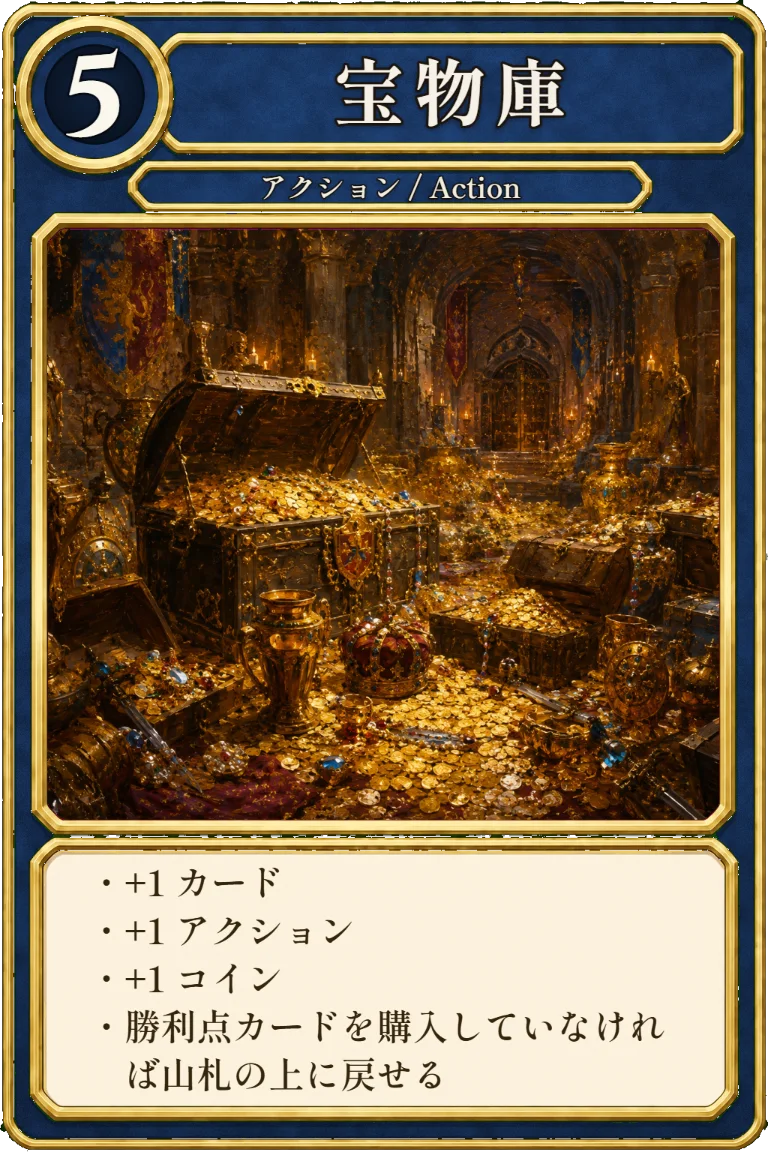
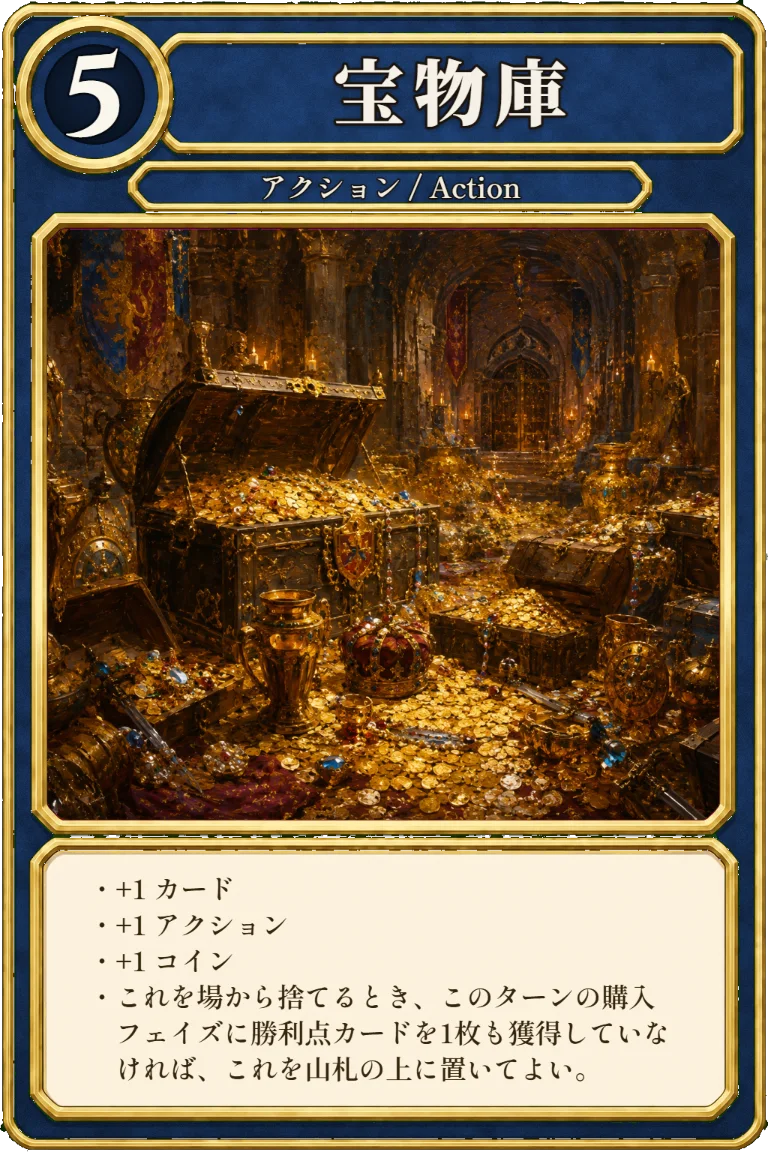
fix(seaside): 宝物庫＝条件は「購入フェイズに獲得した勝利点」だけ（2026エラッタの文面へ更新）
公式FAQ逐語＝`This only cares about Victory cards gained in the Buy phase, not ones gained in
the Action phase (such as via Smugglers).`
＝**アクションフェイズの勝利点の獲得（密輸人／工房で庭園 等）は宝物庫を妨げない**のに、
本アプリは `gainedThisTurn` を見ていて妨げていた（出荷済みの忠実性バグ・エラッタ以前から）。

現行のカード文（2026エラッタ＝2022エラッタの差し戻し）＝
`When you discard this from play, if you didn't gain any Victory cards in your Buy phase this
turn, you may put this onto your deck.`
→ 実装位置（場から捨てる瞬間）は元から正しかったので、条件だけを直した。
`t.victoryGainedInBuy` を新設（獲得した瞬間のフェイズで判定＝ヴィラが phase を戻しても正しい）。

カード文を現行に更新して webp を再生成（このPCのみ）。回帰テスト5件（感度をバグ注入で確認）。
npm test 全44スイート緑。

Changed region(s): [[0.1562, 0.75, 0.875, 0.9688], [0.4375, 0.0312, 0.75, 0.125]]

diff --git a/js/engine.js b/js/engine.js
@@ -1338,6 +1338,7 @@
       active, phase: 'action', actions: 1, buys: 1, coins: 0, potions: 0, costReduction: 0,
       actionsPlayed: 0, copperBonus: 0, merchants: 0, silverPlayed: false, buysMade: 0,
       coinPenalty: 0, // 冒険：-$1トークンの未消化ぶん（購入フェイズで最初に得る$1に食い込む。毎ターンリセット）
+      victoryGainedInBuy: false, // 海辺：宝物庫＝このターンの**購入フェイズに**勝利点を獲得したか（アクションフェイズの獲得は数えない）
       priestCount: 0, // ルネサンス：司祭＝このターン有効な司祭の数（廃棄1枚につき +2コイン × この数）
       cargoCharges: 0, // ルネサンス：貨物船＝このターン「獲得したカードを脇に置ける」残り回数（貨物船1枚につき1回）
       improvePlays: 0, // ルネサンス：増築＝このターンに使用した回数（玉座/山砦/王笏の再演も数える＝策謀 t.schemes と同型）
@@ -8964,6 +8965,13 @@
     //   ヴィラの獲得時効果はこの関数の途中で phase を 'buy'→'action' に変えるので、それより前の値を捕まえておく
     //   （さもないと購入フェイズ中のヴィラ獲得で公会堂/列柱/汚された神殿の呪い が発火しない＝過小得点）。
     const gainWasBuyPhase = !!(state.turn && state.turn.phase === 'buy');
+    /* 海辺：宝物庫＝「このターンの**購入フェイズに**勝利点カードを1枚も獲得していなければ」山札の上に戻せる。
+       公式FAQ逐語＝`This only cares about Victory cards gained in the Buy phase, not ones gained in the
+       Action phase (such as via Smugglers).` ＝**アクションフェイズの獲得（密輸人・工房で庭園 等）は妨げない**。
+       獲得した瞬間のフェイズで判定する（ヴィラが phase を戻しても正しい＝ランドマークと同じ理由）。 */
+    if (gainWasBuyPhase && state.turn && pIndex === state.turn.active && isTypeSupply(state, cardId, 'victory')) {
+      state.turn.victoryGainedInBuy = true;
+    }
     // 移動動物園：**獲得した瞬間**に追放マットにあった同名の枚数。門番（追放するか）と
     //   追放マットの払い戻し（同名を全部捨て札に戻せるか）は、どちらもこの値で判定する＝両者は排他になる。
     const exiledBefore = exileCount(state.players[pIndex], cardId);
@@ -10327,8 +10335,13 @@
         if (n) log(state, `${p.name} は城壁のある村 ${n}枚 を山札の上に戻した。`);
       }
     }
-    // 宝物庫：このターンに勝利点カードを獲得していなければ、場の宝物庫を山札の上に戻せる（常に得なので自動）。
-    if (p.inPlay.includes('treasury') && !(state.turn.gainedThisTurn || []).some((id) => DOM.isType(id, 'victory'))) {
+    /* 海辺：宝物庫＝**これを場から捨てるとき**、このターンの**購入フェイズに**勝利点カードを1枚も獲得して
+       いなければ、山札の上に置いてよい（常に得なので自動＝許容簡略化）。
+       ⚠ 判定は `t.victoryGainedInBuy`（購入フェイズの獲得だけ）。以前は `gainedThisTurn` を見ていたので、
+          **アクションフェイズに勝利点を獲得した（密輸人／工房で庭園 等）だけで戻せなくなっていた**（既存の忠実性バグ）。
+       ※現行のカード文は 2026エラッタで「購入フェイズの終わりに」→「これを場から捨てるとき」に戻っている
+         （2022エラッタの差し戻し）＝この位置（場から捨てる瞬間）が正しい。 */
+    if (p.inPlay.includes('treasury') && !state.turn.victoryGainedInBuy) {
       let n = 0;
       while (removeOne(p.inPlay, 'treasury')) { p.deck.unshift('treasury'); n++; }
       if (n) log(state, `${p.name} は宝物庫 ${n}枚 を山札の上に戻した。`);

diff --git a/js/cards.js b/js/cards.js
@@ -235,7 +235,7 @@
     bazaar:       { id: 'bazaar',       name: 'バザー',     cost: 5, types: ['action'],
                     text: '+1 カード\n+2 アクション\n+1 コイン' },
     treasury:     { id: 'treasury',     name: '宝物庫',     cost: 5, types: ['action'],
-                    text: '+1 カード\n+1 アクション\n+1 コイン\n勝利点カードを購入していなければ山札の上に戻せる' },
+                    text: '+1 カード\n+1 アクション\n+1 コイン\nこれを場から捨てるとき、このターンの購入フェイズに勝利点カードを1枚も獲得していなければ、これを山札の上に置いてよい。' },
     outpost:      { id: 'outpost',      name: '前哨地',     cost: 5, types: ['action', 'duration'],
                     text: 'このターン1度だけ、手札3枚の追加ターンを得る' },
     tactician:    { id: 'tactician',    name: '策士',       cost: 5, types: ['action', 'duration'],

diff --git a/docs/research/risingsun_rules.md b/docs/research/risingsun_rules.md
@@ -1,0 +1,206 @@
+# 旭日（Rising Sun）＝公式ルール研究の正本
+
+- 拡張＝**Dominion: Rising Sun**（第16拡張・**2024年8月10日**発売・Rio Grande Games）。
+- **日本語の拡張名＝「旭日（きょくじつ）」**。⚠ 本プロジェクトが長らく書いていた「日の出づる国」は**誤り**だった
+  （英語wiki `Rising Sun > Trivia > Official releases in other languages` の `Japanese: 旭日 (pron. kyokujitsu)` と、
+  日本語wiki `wikiwiki.jp/dominiondeck` のページ名 `旭日` が**独立に一致**）。
+- **300枚／実装対象50種**＝王国250（**25種**×10）＋ランダマイザー25＋**イベント10**＋**予言(Prophecy)15**。
+- トークン＝負債40／**日の出(Sun)13**。
+- **カードの機能エラッタは0件**（`Errata` ページの Rising Sun 節が空・Versions 表は `August 2024 / First edition` の1行だけ）。
+
+作成＝2026-08-16。多エージェント研究（8群を分担収集 → **各群を別エージェントが一次資料で敵対検証** → 訂正を反映した確定版）。
+確定した訂正 **43件**（[high] 2／[medium] 12／[low] 29）。**捏造・枚数過不足はゼロ**。
+
+---
+
+## ★実装前に必読（18項目）★
+
+**ここだけは記憶ではなくこの文書を見ること。** 各項目の根拠は該当章にある。
+
+### 新機構（新規は2つだけ）
+1. **前兆(Omen)／予言(Prophecy)／日の出(Sun)トークン**
+   ＝**王国に Omen が1枚でもあれば予言を1枚だけ配る**（Omen が何枚あっても1つ）。
+   Sun トークンは **2人5／3人8／4人10／5人12／6人13**。
+   **「+1 Sun」＝予言からトークンを1個取り除く。最後の1個を取り除いた瞬間に予言の効果が有効になり、以後ゲーム終了までずっと有効。**
+   **「+1 Sun」は Omen カードの記載の一番最初に必ず来る**＝**予言はそのカードの残りの効果より前に発動しうる**
+   （公式FAQ逐語＝`First the +1 [Sun] happens, which may trigger a Prophecy; then …`）。
+   **全部取り除いた後の「+1 Sun」は何もしない**（空振りでも Omen の残りは普通に解決する）。
+   - **Omen は6種**＝Mountain Shrine(5D) / Poet($4) / River Shrine($4) / Rustic Village($4) / Tea House($5) /
+     **Kitsune($5)＝`Action - Attack - Omen`**。
+   - **予言は「カード」ではない**（公式逐語＝`Prophecies are not considered "cards" at all`）＝
+     `allCards` にも保存則 tally にも入れない。庭園/品評会/壁にも数えない。Sun トークンも非カード。
+   - **予言は横型の「合計2枚まで」に数えない**（同盟の Ally とまったく同じ扱い）。
+     公式の「最大2枚」の列挙は `Events, Traits, Landmarks, Projects, and Ways` で**予言が入っていない**。
+     枠色は **iris blue（菖蒲色）**。**コスト欄は無い**。
+2. **影(Shadow)カード＝5種**（Fishmonger$2 / Alley$4 / **Ninja$4＝`Action-Attack-Shadow`** / Ronin$5 / Tanuki$5）
+   - **裏面が違うので山札から使える**。**シャッフルするとき「シャッフルした束の一番下」に置く**。
+     **獲得したときは一番下に置かない**（シャッフルのときだけ）。底に置かれた後も普通に動く。
+   - **アクションを使えるときならいつでも、山札のどこにあっても使える**（＝**アクション権を消費する**。
+     Donald X. 逐語＝`you have to be allowed to play an Action, it doesn't get around that`）。
+   - **玉座の間などが「手札からカードを使う」と言ったときも山札の影札を使ってよい**（本拡張の `Practice` も同じ）。
+   - ⚠ **ただし手札にあるわけではない**＝`Alley` の「手札1枚を捨てる」・地下貯蔵庫・民兵の捨て札・書庫の手札枚数
+     には**一切数えない**。**逆に庭園/品評会/絹の道など「所有カードの総数」には数える**（山札の底も所有カード）。
+   - **裏面は5種とも別の絵**（wiki の `File:NinjaBack.jpg` 等5枚を実見して確定）＝
+     **裏を見れば何の影札かまで分かる**。共通なのは帯の文言 `When shuffling this, put it on the bottom of your deck.` だけ。
+     → **`maskStateFor` は「どの位置が影札か」ではなく「どの位置にどの影札があるか」を自分に見せる**設計にする。
+   - **略奪の「運命の(Fated)」と一緒に底に置ける**（相対順は選べる）＝mix-all で同居する。
+3. **負債(Debt)・イベント(Event)・持続(Duration) は既存機構**（帝国／冒険・帝国／全拡張）。**新規実装は不要**。
+
+### 出荷済みの挙動に関わること（★最重要★）
+4. **【2024エラッタ・帝国に遡及】負債は「そのターン中いつでも」返済できる**（購入フェイズ限定ではない）。
+   旧ルールは wiki が `Prior official rules (amended by the release of the Rising Sun expansion)` として過去扱い。
+   Donald X.＝`no more screwing over Black Market`（＝アクションフェイズの闇市場で負債持ちが詰むのが動機）。
+   → **2026-08-16 に修正済み**（`REPAY_DEBT` の購入フェイズ判定を外し、UI の返済ボタンを全フェイズ共通に）。
+5. **【同】負債を負うのは「購入」したときだけ**。**効果での獲得では負債を負わない**
+   （逐語＝`Although buying a card with [D] in its cost gives you Debt tokens, gaining such a card in other ways does not.`）。
+   → **2026-08-16 に修正済み**（`takeDebt` を `gain()` から `BUY` / `BLACK_MARKET_BUY` へ移した）。
+   ルールブックの公式例 **`Tanuki trashing an Artist can gain a Daimyo`** がまさにこの経路＝**旭日を実装すると必ず踏む**。
+6. **コスト比較は成分別**（既存 `costOf`/`costUpTo`/`costExact` が既に正しい）。公式例＝
+   **`"Up to [$4]" は D を含むコストを含まない`**／**`$4 と 6D はどちらも他方より高くない`**／
+   **`8D は 6D より高い`**／**`純粋な D コストには暗黙の $0 がある`**。
+   → `Craftsman can't gain a Mountain Shrine`（5D は "up to $5" ではない）。
+7. **持続を追加で使わせたカードも場に残る**＝公式が名指しする一覧は
+   **Throne Room / Scepter / Mastermind / Specialist / Flagship / Daimyo**。
+   ＝**略奪の決定D4「旗艦は持続を再演したら場に残す（例外なし）」と完全に一致**。**Daimyo も同じ実装**。
+   ⚠ ただし本アプリには **§0-25/§0-28 の許容簡略化「玉座×持続では玉座が場に残らない」**が残っており、
+   **Daimyo を足すと旭日単独セットでも見えるようになる**。
+8. **【2025エラッタ】持続が場を離れたら以後働かない**（`If a Duration card leaves play somehow, it stops doing
+   things on future turns.`）＋**玉座側の再演も止まる**。**印刷版ルールブック(2024)にはこの2文が無い**＝
+   **wiki の現行版が正**。本アプリの現状は未調査＝**段階2の着手前に確認すること**。
+9. **【2026エラッタ・未アナウンス】`Royal Galley`（同盟）＝脇に置かない**／**`Treasury`（海辺）＝捨てたときに誘発**
+   （2022エラッタの差し戻し）。**どちらも `2026 Errata` ページに正式掲載されている**。
+   → §「決定事項 D2」を見ること（**§0-29 A4 の決定を覆す**）。
+10. **【2025エラッタ】`Capital`（帝国）＝`When you discard this from play, +[6D].`**（「その後 返済してよい」が消えた）。
+    理由＝負債がいつでも返せるようになったので**冗長になった**だけ＝**挙動は同じ**。本アプリの実装は結果として正しい。
+    ⚠ **`Errata` の要約ページには載っておらず、`Capital` の個別 Versions 表にしか無い**＝要約だけ見ると必ず取りこぼす。
+
+### 実装で壊しやすいところ
+11. **`Continue`（イベント・8D）＝購入フェイズからアクションフェイズへ戻る**＝**ヴィラ(Villa)と同じクラス**。
+    闘技場の再武装／宝箱の再発動／公会堂・列柱の `gainWasBuyPhase` を必ず通すこと。
+    **`Continue` だけが `Once per turn:` 付き**（他9イベントは入れない）。
+    さらに **`River Shrine` は「このターンの購入フェイズで1枚も獲得しなかったか」を複数の購入フェイズを跨いで見る**。
+12. **`Daimyo`（6D・`Action - Command`）＝「このターン、次に使う命令でないアクションを再使用する」**
+    ＝**略奪の旗艦(Flagship)とほぼ同型**（旗艦は持続で「次回」、大名は「このターン中」）。
+    **`Command` 種別が付いているのは無限ループ防止のためだけ**（公式逐語＝`it has no meaning beyond stopping
+    these cards from playing each other.`）＝**`DOM.isType(card,'command')` の除外に Daimyo を足す**。
+    公式＝**任意ではない**／**そのカードが自身を廃棄しても再使用する**／**大名2枚＋名匠なら名匠を計3回使う**。
+13. **`Riverboat`（$3）の準備**＝**使っていない非持続の「ちょうど $5」のアクション1枚を脇に置く**。
+    「動かさずに使用する」＝**はみだし者と同じ命令型の処理**（日本語wiki が明示）＝**`playAsCommand` を通す**。
+    ⚠ **その脇札自身の setup も走らせる**必要がある（Divine Wind の逐語 `Do any Setup for them that they require`）。
+14. **`Approaching Army`（予言）＝準備でアタックの王国カードの山を1つ追加する**（既にアタックがあっても）。
+    **11山目は普通のサプライ山**（購入可・獲得可・**3山終了に数える**）＝**若き魔女の災いカード(Bane)と同型**。
+    **予言が発動しなくても準備の追加は起きる**。
+15. **`Divine Wind`（予言）＝最後の Sun を取り除いたとき、王国の10山（＋11山目）を撤去して新しく10種を配り直す**
+    ＝**本アプリに前例が無い破壊的操作**。公式逐語で決まっていること＝
+    **廃墟/ポーション/プラチナ・植民地は撤去しない**／**新しい10種の setup は走らせる**／**家宝は配らない**／
+    **避難所やプラチナ・植民地の採否は決め直さない**／**連携が出て Ally が未決なら Ally を配る**／
+    **予言は配り直さない**／**撤去した山は空山に数えない・カードを戻せない**／
+    **撤去した山のトークンは無くなる**／**特性(Trait)とオベリスクは撤去した山にも効き続ける・Bane は Bane のまま**／
+    **略奪の調査(Search)は山の撤去では誘発しない**／**「このゲームで使う」型（シャーマン等）は撤去後も機能する**。
+16. **`Kind Emperor`（予言）は発動した瞬間に即時発火する**（`When the last [Sun] is removed, this applies
+    immediately, in the middle of resolving the Omen, and **only the player who removed the [Sun]** gains an Action then.`）
+    ＝**予言の発動を「次のターン開始時にまとめて」に遅延させる実装は公式違反**。
+    **`Divine Wind` も同じく「最後の Sun を取り除いたとき」型**＝**汎用の発動フックを作ること**（専用フックにしない）。
+17. **`Biding Time`（予言）＝クリンナップ開始時に手札を伏せて脇に置き、次の自分のターン開始時に手札へ加える。
+    置き換わるのは「捨てる」だけで、5枚のドローは普通に行う**（`you still draw 5 cards`）。
+    ⚠ ここを「手札が空になる」と読むと**リアクション不能・捨てアタック空振り**という誤った実装になる。
+18. **`Rapid Expansion`（予言）＝アクションと財宝を「せっかちな(Hasty)」にする**
+    （公式が `makes all Actions and Treasures Hasty` と名指し）＝**略奪の特性「せっかちな」を本アプリは実装済み**
+    （`p.eventSetAside`＋`event_play` に相乗り）＝**その機構を流用する**。
+
+---
+
+## 決定事項（D1〜D5）
+
+### D1. 日本語のカード文面＝**Dominion Online 訳で統一**（略奪の決定3と同じ）
+日本語wiki の個別カードページは**英語原文と日本語訳を同じ表に並記**しており、その日本語訳は
+`※日本語訳はDominion Onlineより` と明記されている。**ホビージャパン印刷版の逐語を50種ぶん揃える手段が無い**
+（ユーザーは日本語版の現物を持っていない）。**カード名は日本語wiki のページ名＝印刷版準拠**を使う。
+⚠ **印刷版と文面が違うと日本語wiki 自身が書いているカードが6枚**＝
+**川船／好機到来／米／絵師／進歩／盛大な取引**（各ページの「余談」節）。
+とくに **`Biding Time`＝「好機到来」は日本語wiki 自身が「財産目当て並みの誤訳」と書いている**
+（原意は「好機を**待つ**」。DO の未発売時の訳は「待機」だった）。**それでも印刷版の名前は「好機到来」**なので採用する。
+
+### D2. **`Royal Galley`（同盟）と `Treasury`（海辺）の 2026エラッタを採用する**（＝§0-29 A4 の決定を覆す）
+- **事実**＝`2026 Errata` ページに **`Royal Galley — Don't set the played card aside to avoid problems with the
+  2025 Duration rule change.`** と **`Treasury — Triggers when discarded instead of at the end of the Buy phase
+  (reverting the 2022 Errata).`** が正式に掲載されている
+  （同ページ冒頭＝`A few individual cards were changed during 2026 without any official announcement being made.`）。
+- **§0-29 A4 は「2026年5月に *announce* されたが未印刷で公式FAQも未更新」を理由に採らないと決めていた**が、
+  **その後 wiki の年次エラッタページに正式に載った**。
+- **一貫性の根拠**＝略奪の決定D1で **`Journey`（旅行）は未印刷の2023エラッタを採用している**
+  （理由＝正式なエラッタ行があるから／同じエラッタの `mission` を既に採用済みだから）。**同じ基準を適用する**。
+- → **段階2の前後どちらでもよいが、別コミットで直すこと**（旭日とは独立した既存拡張の修正）。
+
+### D3. **影札のオンライン可視性**（`maskStateFor`）
+公式は「裏面が5種とも違う」ので、物理的には**相手の手札・脇にある影札は種類まで見える**
+（唯一の前例＝`Stash` の Official FAQ `you'll be able to tell when it's in other players' hands, or set aside for a Haven`）。
+一方**相手の山札の中は束なので見えない**。→ **実装方針**：
+- **必須**＝**自分の山札の「どの位置にどの影札があるか」を自分に見せる**（見えないと山札からプレイする操作ができない）
+  ＝`maskStateFor` の私的看破リストに追加（§0-21 偵察隊／§0-28 夜警／A4 粉屋・歩哨と同じクラス）。
+- **相手の手札・脇の影札を見せるかは段階2で判断**（本アプリは相手の手札を枚数だけにしている＝忠実性 vs 既存設計の衝突。
+  §0-30 の「戦利品の山＝一番上も見せない」と同じクラスの判断）。**据え置くなら許容簡略化として明記する**。
+
+### D4. **シャッフル時の影札の相対順は自動**（許容簡略化）
+公式は「影札が複数あるとき／運命の(Fated)と同居するとき」だけ底での**相対順を選べる**が、
+本アプリの `reshuffleDeck` は**同期・非対話**（§0-22 星図・§0-29 占星術師団・§0-30 運命の と同じ難所）。
+**戦略的影響はほぼゼロ**（底の並び順が効くのはそのシャッフルで山札を底まで掘り切る極端な場合だけ）なので**自動で決める**。
+※影札を底へ移す処理自体は `reshuffleDeck` の「運命の」ブロックの直後に足すだけでよい（**同関数がシャッフルの唯一の入口**）。
+
+### D5. **`Approaching Army` の11山目が 特性(Trait)／災いカード(Bane) の候補になるか＝公式の明文が無い**
+3ページを全文取得しても明文が無いことを検証側も確認した。**本アプリは §0-30 P4 で「特性の選出は準備手順の最後
+（災いカードの山も候補）」と決めている**ので、**追加の山も「配られた王国カード」に含める**（自然な読み）。
+→ **許容簡略化として明記する**。
+
+---
+
+## 段階1・段階2 の計画
+
+### 段階1＝カタログと画像
+- `DOM.CARDS` **+25**（560→**585**）／`DOM.LANDSCAPES` **+25**（201→**226**）＝合計 761→**811枚**。
+- **新種別 `omen`（前兆）**・**`shadow`（影）**＝縦型（前例＝同盟の `liaison`／略奪の `loot`）。
+- **横型の新 kind `prophecy`（予言）**＝`tools/build-landscape.js` にスキンを新設。
+  **iris blue（菖蒲色）**・**コスト欄なし**（前例＝同盟の `ally`＝濃い藍／略奪の `trait`＝深い臙脂）。
+- ⚠ **`DOM.STAGE1_POOLS` に必ず入れる**（今は `[]`。入れないと闇市場に「買っても何も起きない死に札」が $0 で並ぶ）。
+- ⚠ **影札は裏面が違う**＝カード画像（webp）の扱いを決める（表だけでよいか、裏も要るか）。
+- ⚠ **id 衝突**＝既存761枚と機械照合すること（`rice`/`samurai`/`ninja` 等は未使用だが `artist`↔`artisan`、
+  `change`↔既存語 に注意）。
+
+### 段階2＝engine/CPU/UI（推奨バッチ順）
+| バッチ | 内容 | 理由 |
+|---|---|---|
+| **R1** | **前兆/予言/Sun トークンの基盤**（`state.prophecy`・`state.sunTokens`・`+1 Sun` の共通入口・**汎用の発動フック**） | 予言15種が全部これに乗る。Ally の選定（§0-29 A1）と同型 |
+| **R2** | **影(Shadow)の基盤**（`reshuffleDeck` で底へ／山札から使う経路／`maskStateFor`／玉座等の「手札から」窓に並べる） | 王国5種と横断機構 |
+| **R3** | 素直な王国カード（$2〜$5 のうち新機構に触らないもの） | — |
+| **R4** | **予言15種**（`Divine Wind` は最後） | R1 の上 |
+| **R5** | **イベント10種**（`Continue` はヴィラ経路） | 既存 `BUY_EVENT` の上 |
+| **R6** | 残りの王国（`Daimyo`／`Riverboat`／`Artist`／`Rice`／`Samurai` ほか） | 命令・準備・持続 |
+| **R7** | **CARD_SET 昇格**（`risingsun` 固定10種＋`risingsun-events`＋`risingsun-prophecies`＋`random-risingsun`＋mix-all 16→17拡張） | — |
+
+**新しい pending は必ず4点セット**（engine reducer＋`PLAYER_ACTIONS`＋CPU `decidePending`＋UI `viewPendingModal`）。
+**述語を1つ足したら、窓を開く条件・受理・CPU の候補・UI のフィルタの4面を同時に直す**（本プロジェクトで最も再発する事故）。
+
+---
+
+## 一次資料（このPCに保存済み）
+
+| ファイル | 内容 |
+|---|---|
+| `C:/tmp/risingsun_research/rulebook.pdf` / `rulebook.txt` | RGG 公式ルールブック **2024年版**（`pdftotext -layout` 済み・119KB）。**一般ルールの逐語の正本** |
+| `C:/tmp/risingsun_research/_expansion.txt` | 英語wiki `Rising Sun`（拡張の総論・ライブ） |
+| `C:/tmp/risingsun_research/jp_expansion.txt` / `jp/` / `g0_jp_pairs.md` | 日本語wiki `旭日` ＋ 個別50ページ ＋ **EN/JP 対応表（機械抽出）** |
+| `C:/tmp/risingsun_research/g1〜g8_*.md` | 収集doc（8群） |
+| `C:/tmp/risingsun_research/v_*.md` | 敵対検証doc（8群・確定訂正43件） |
+| `C:/tmp/risingsun_research/m1〜m8_*.md` | **訂正を反映した確定版**（＝下記の各章の元） |
+
+### 取り方（ツール）
+- **英語wiki**＝`node tools/wikidirect.js "<Page>" [...]`（Anubis を自力で突破・**常にライブ**・数秒）。
+  生HTMLは `RAW_DIR=<dir>`。**2026-08-16 に 301/302 のリダイレクト追従を追加した**
+  （拡張の総論ページは正規URLへ 301 されるので、追わないと本文が1バイトも取れない）。スペースは `%20` ではなく `_`。
+- **日本語wiki**＝`python tools/jpwiki.py "<ページ名>" [...]`。
+  ⚠ **数ページ続けて叩くと 429**（50ページ中36ページが 429 になった）＝**6秒間隔＋バックオフ再試行**を実装済み。
+  **エージェントを並列で走らせると必ず全滅する＝日本語wiki だけは逐次で取ること。**
+- ⚠ **区切り線（`<hr>`）は strip 済みテキストでは消える**＝**生HTML で数える**か、
+  **日本語wiki の並記表に出る `--------------------` を見る**。
+
+---
